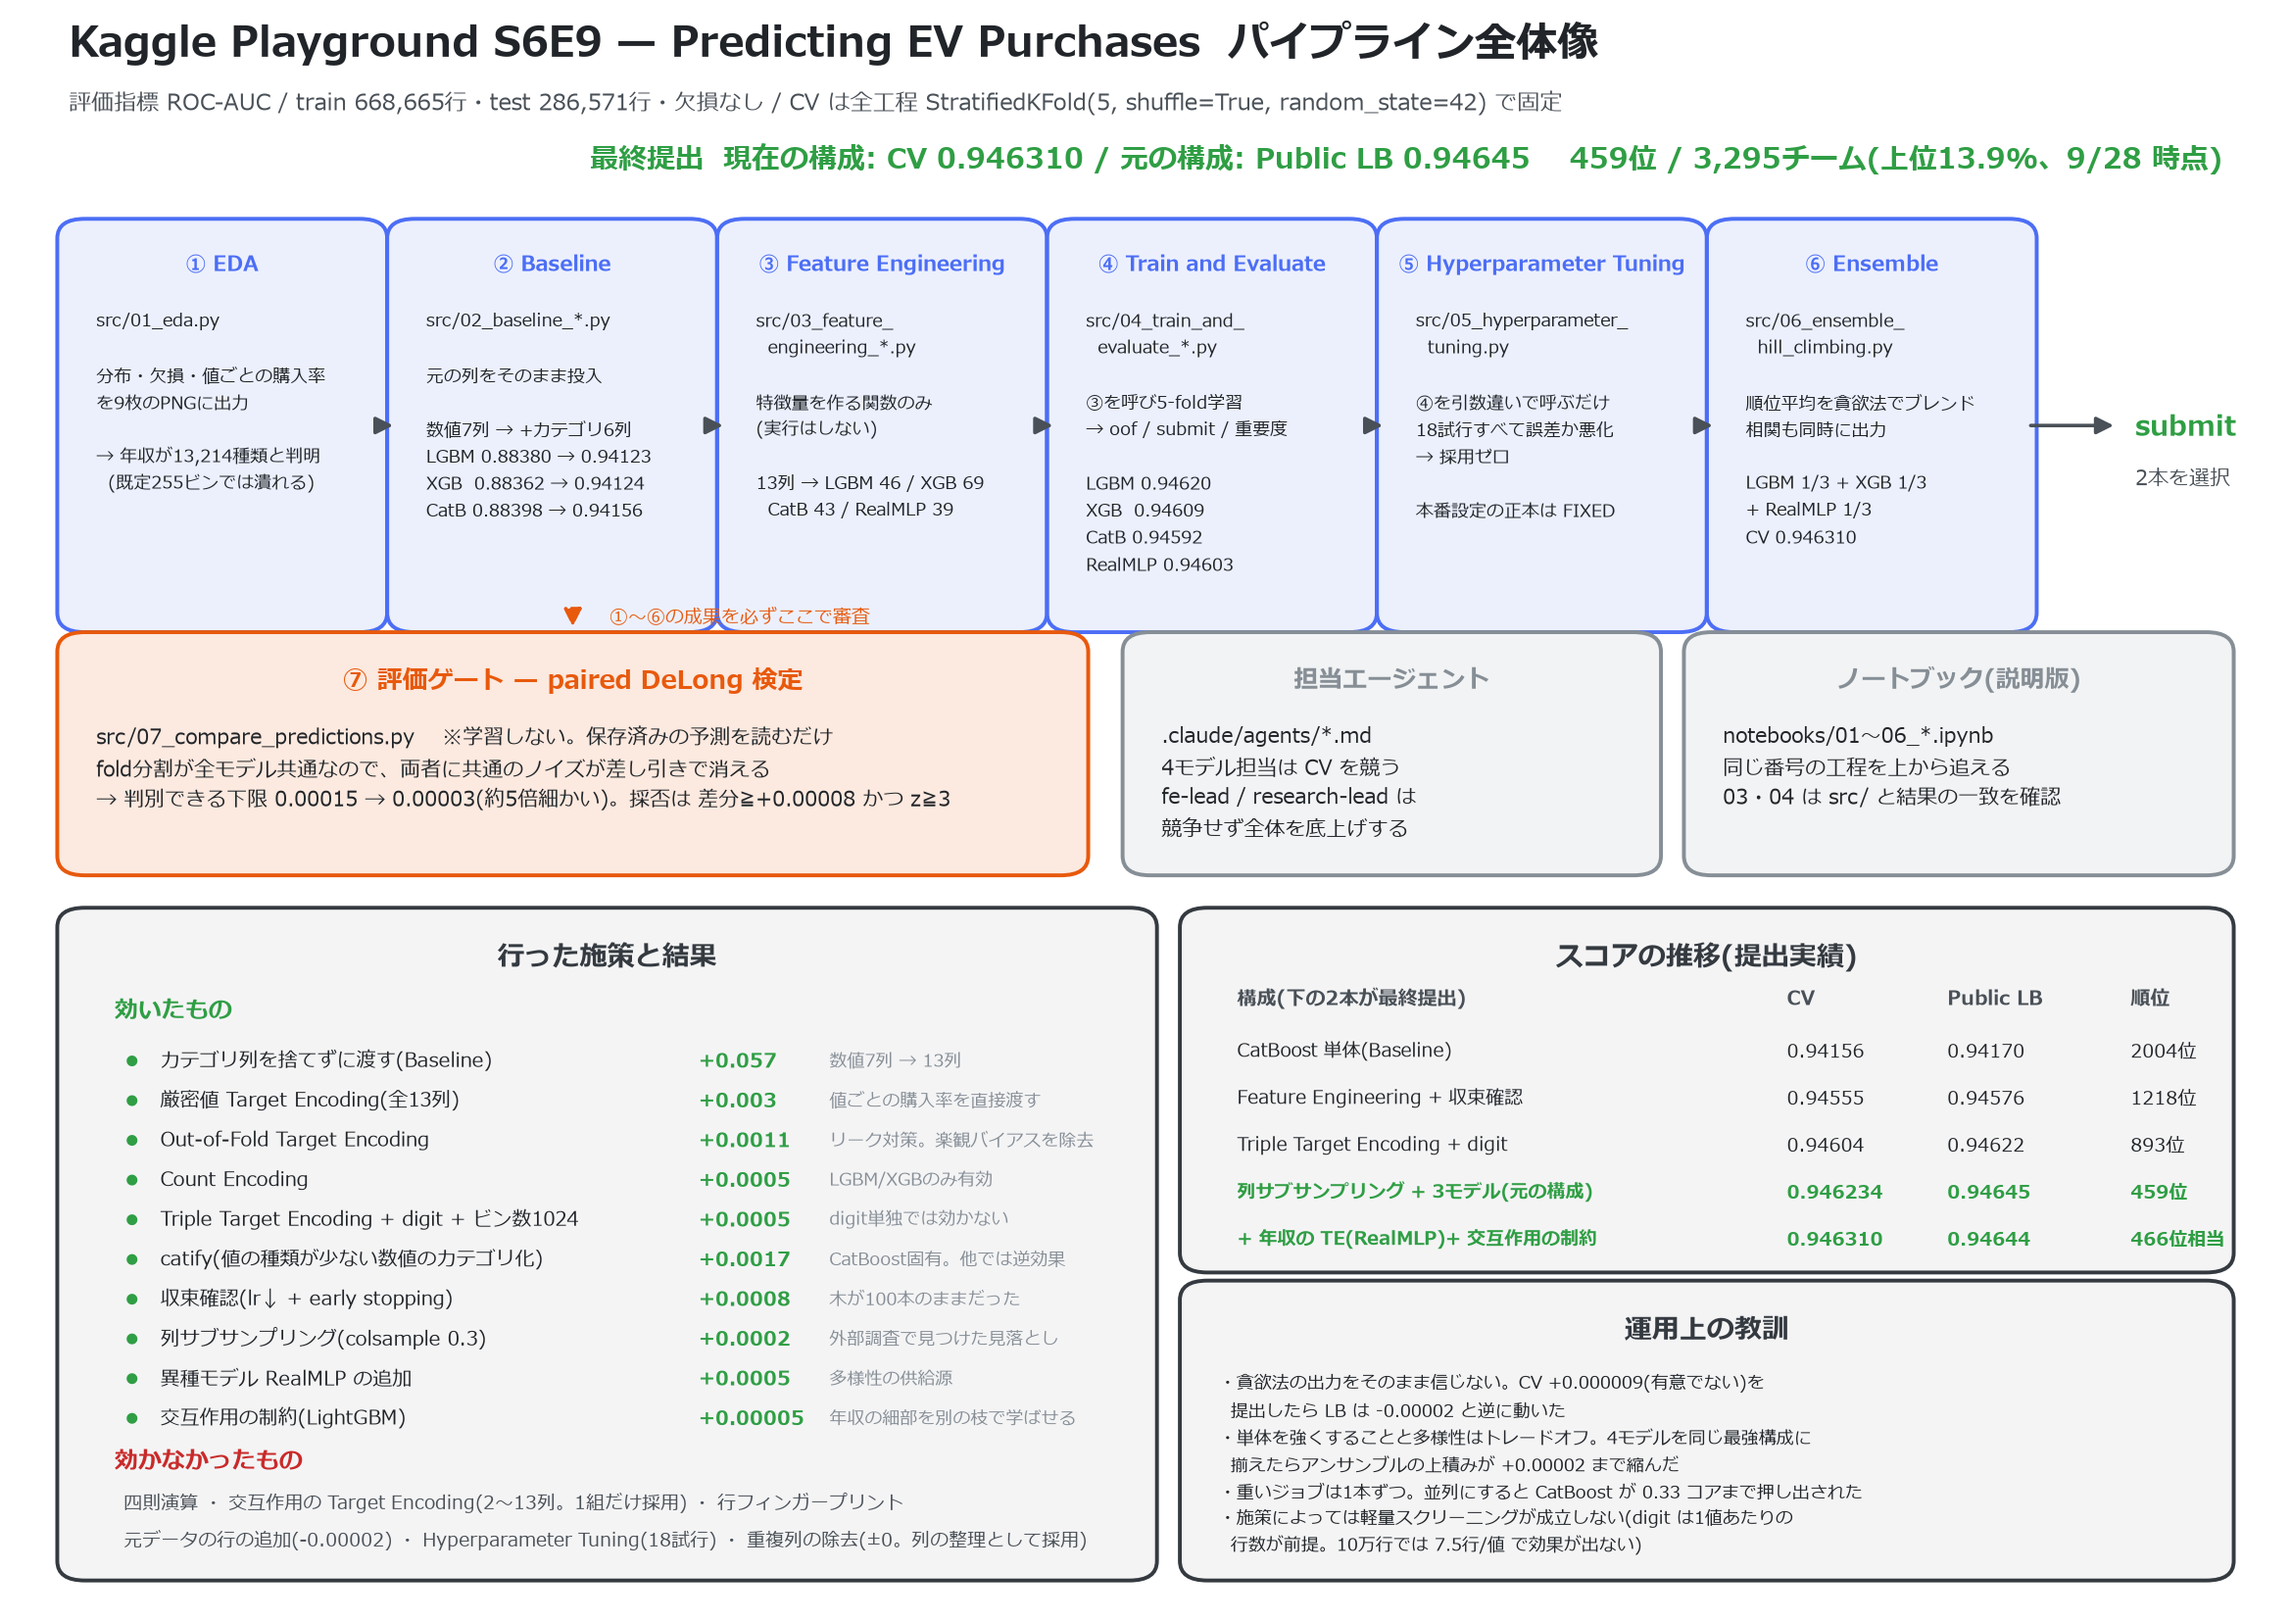
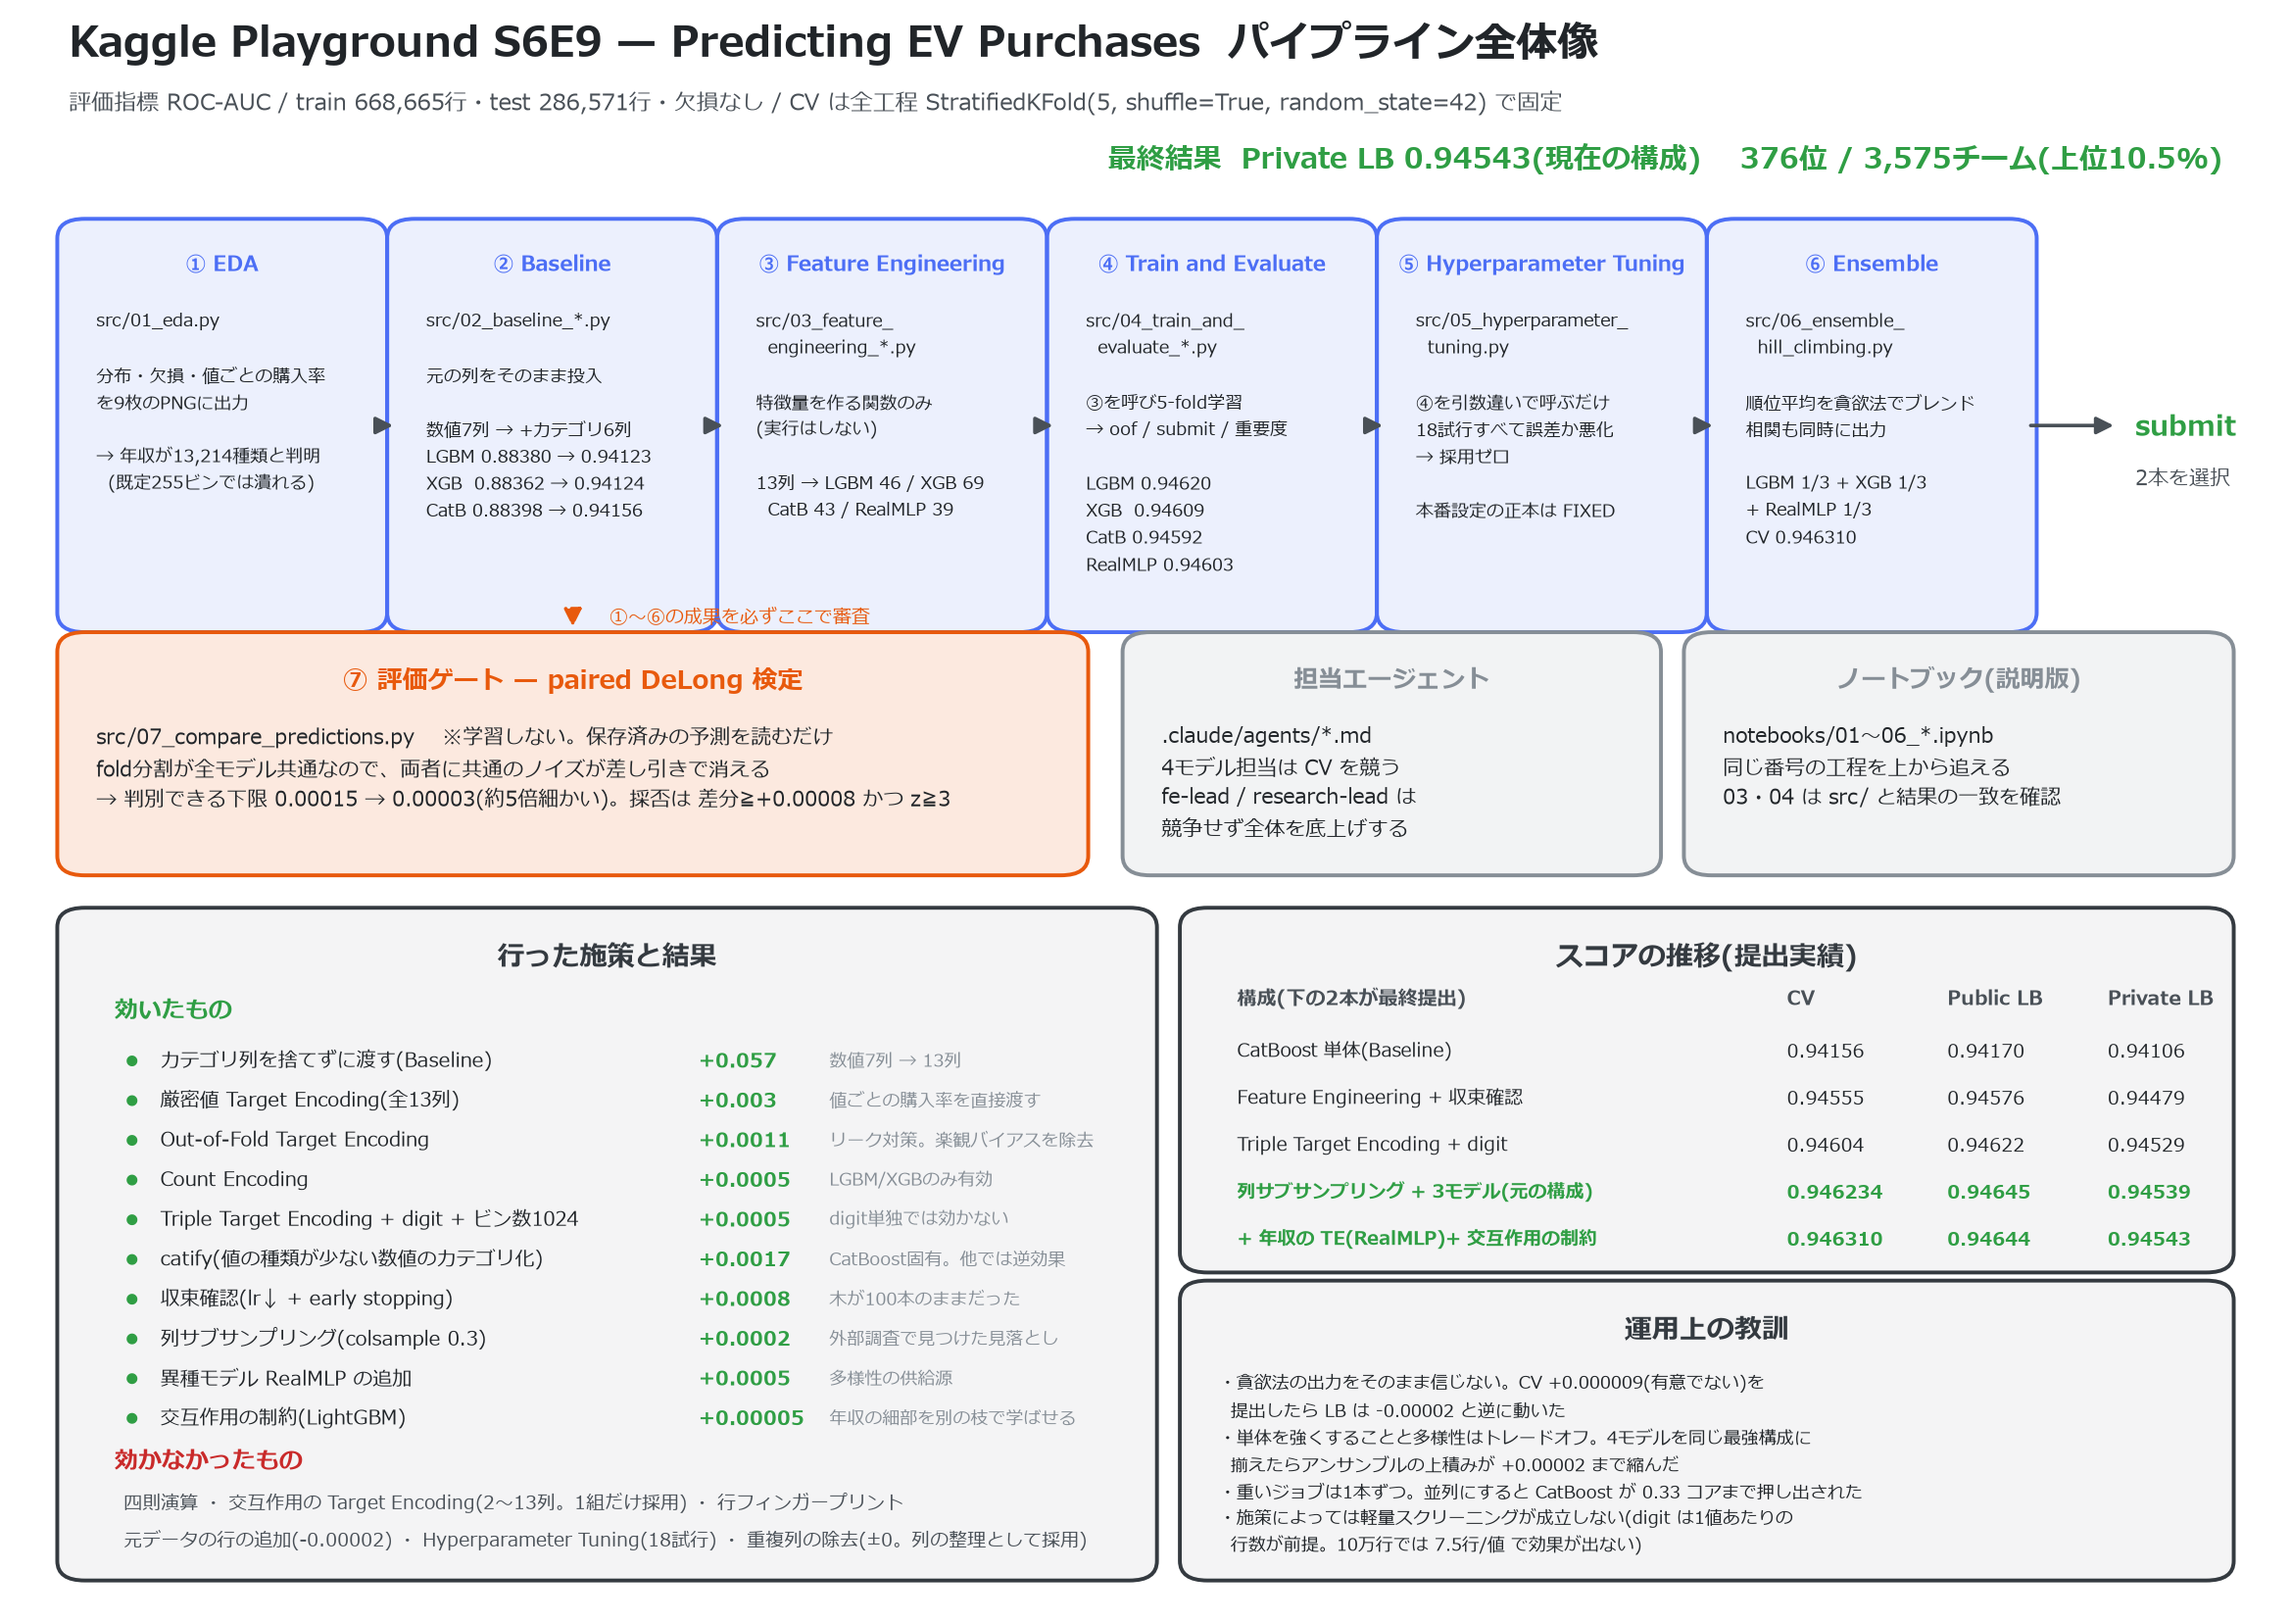
Record the final private leaderboard result

Changed region(s): [[0.2498, 0.0925, 0.5932, 0.1233], [0.6557, 0.0925, 0.9679, 0.1233], [0.9367, 0.5859, 0.9679, 0.7709]]

diff --git a/2609/src/04_train_and_evaluate_realmlp.py b/2609/src/04_train_and_evaluate_realmlp.py
@@ -588,7 +588,7 @@ def main():
     )
     ap.add_argument(
         "--te-income", action="store_true",
-        help="年収の値ごとの購入率を train だけで fold 内に作る(2026-09-28 検証。元データの購入率と併用で単体 +0.000128 / アンサンブル +0.000018。採否は未決定)",
+        help="年収の値ごとの購入率を train だけで fold 内に作る(2026-09-28 検証。元データの購入率と併用で単体 +0.000128 / アンサンブル +0.000018。採用)",
     )
     args = ap.parse_args()
 

diff --git a/2609/CLAUDE.md b/2609/CLAUDE.md
@@ -42,17 +42,18 @@ Kaggle コンペ [Playground Series - Season 6, Episode 9](https://www.kaggle.co
 9. **09-29**: Feature Importance から立てた仮説のうち、**LightGBM の交互作用の制約**(年収系の列とそれ以外を同じ枝で組み合わせない)を採用。
    単体 +0.000091(z=+4.21)、アンサンブル CV 0.946310 / Public 0.94644 で、最終提出②を置き換えた。XGBoost の同じ制約は上積みなしで不採用。
    最終提出は、予測が最も違う ①(② との順位相関 0.99956)+ ② の両張り(下記「現状」)。
+10. **09-30 締切**: **Private 0.94543(②)、最終 376位 / 3,575チーム(上位10.5%)で目標達成。** ① は Private 0.94539。Private の順は CV の順と一致した。
 
 **改善の内訳**: Feature Engineering +0.004 / 収束確認 +0.0008 / 列サブサンプリング +0.0002 / RealMLP 追加 +0.0005。
 パラメータ側で効いたのは「見落としの是正」2件だけ。
 
-## 現状(2026-09-28 時点)
+## 現状(2026-10-01 時点。コンペ終了)
 
 | 項目 | 値 |
 |---|---|
-| 最終提出(2本) | **現在の構成**: CV 0.946310 / Public 0.94644(D + RealMLP の `--te-income` + LightGBM の交互作用の制約。2026-09-29)、**元の構成**: CV 0.946234 / Public **0.94645**(タグ `final-original-20260927`、成果物は `backup_final_original_20260927/`) |
+| 最終提出(2本) | **現在の構成**: CV 0.946310 / Public 0.94644 / **Private 0.94543**(D + RealMLP の `--te-income` + LightGBM の交互作用の制約。2026-09-29)、**元の構成**: CV 0.946234 / Public **0.94645** / Private 0.94539(タグ `final-original-20260927`、成果物は `backup_final_original_20260927/`) |
 | 構成 | **LightGBM 1/3 + XGBoost 1/3 + RealMLP 1/3**(順位平均)。CatBoost は重み 0 |
-| 順位 | 459位 / 3,295チーム(上位13.9%。09-28 時点。上位15%のラインは 494位 = Public 0.94644) |
+| 順位 | **最終 376位 / 3,575チーム(上位10.5%。Private LB)**。締切時の Public は 600位 |
 | LB 1位 | 0.94945(2位は 0.94672)。Public は test の 20% のみで算出 |
 
 | モデル | ベースライン | 現在 | 列数 | 本番の設定 |
